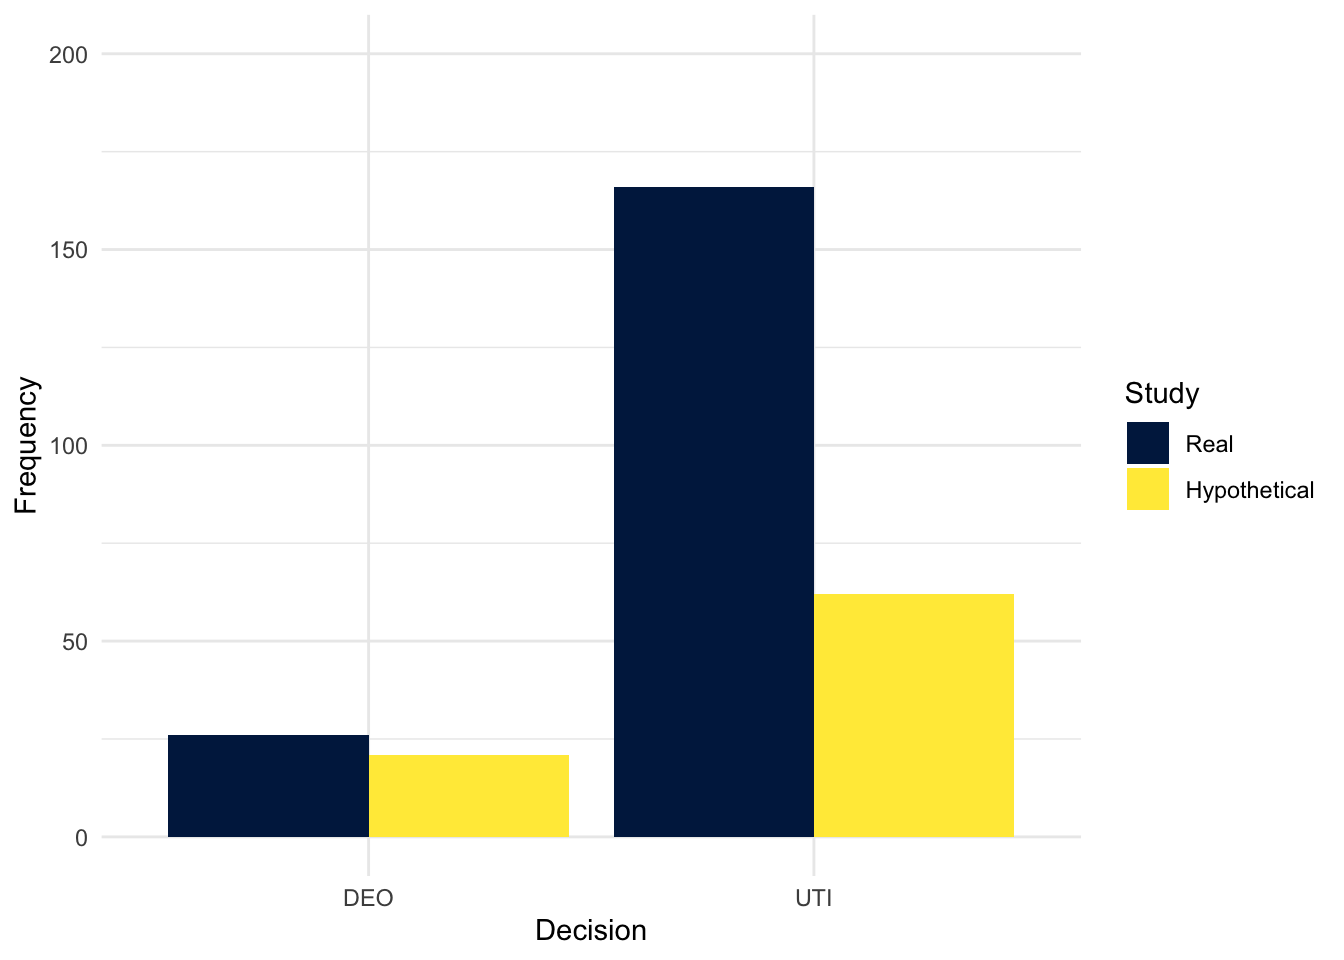
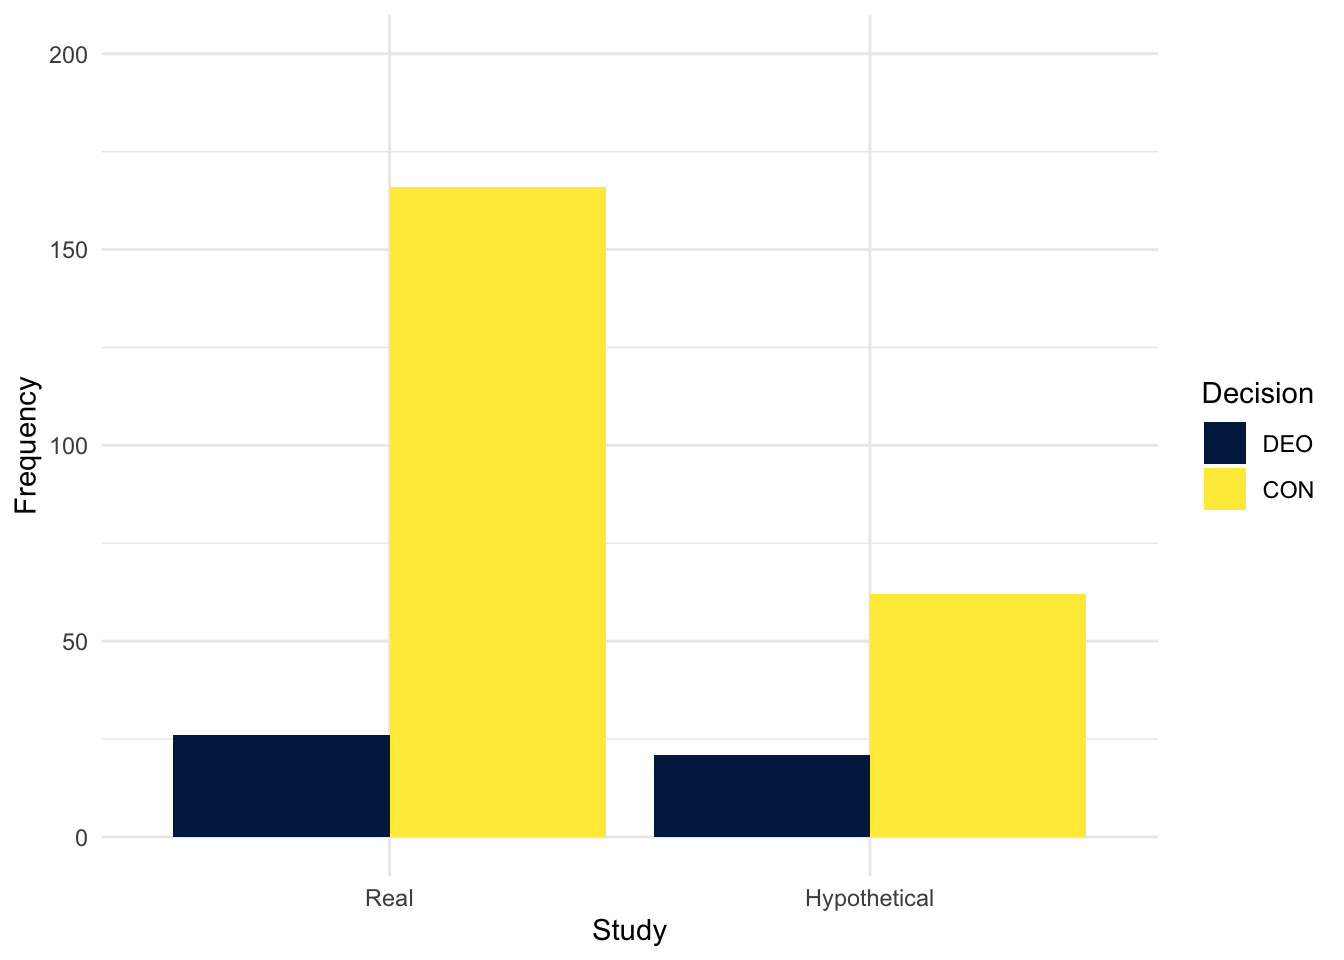
C05 to exploratory data analysis

diff --git a/05-glm.html b/05-glm.html
@@ -137,21 +137,65 @@ window.Quarto = {
 <h2 class="anchored" data-anchor-id="logistic-regression">Logistic Regression</h2>
 <section id="introduction-to-the-dataset" class="level3">
 <h3 class="anchored" data-anchor-id="introduction-to-the-dataset">Introduction to the dataset</h3>
-<p>For the guided examples, we have two datasets, but we will introduce them in turn. To demonstrate logistic regression, we will use data from X.</p>
-<p>Bostyn et al.&nbsp;studied… Their research question was: X The hypothesis was: X.</p>
-<p>There is one independent variable (<code>Condition</code>) to randomly allocate participants into one of two groups:</p>
+<p>For the guided examples, we have two datasets, but we will introduce them in turn. To demonstrate logistic regression, we will use data from <span class="citation" data-cites="bostyn_mice_2018">@bostyn_mice_2018</span>.</p>
+<p>Bostyn et al.&nbsp;studied the classic trolley-dilemma in moral philosophy. In the typical format, a trolley (streetcar/tram) is travelling along tracks and will run over five people. However, you have the choice to pull a lever and divert the trolley to run over just one person. Although this would save lives, you must manually intervene to essentially kill one person. This is typically always a hypothetical scenario as it’s difficult to ask an ethics board for permission to run over people. In this study, Bostyn et al.&nbsp;compared a hypothetical version of the trolley-dilemma with a (seemingly) realistic version. Participants chose between not intervening and allowing five mice in a cage to be shocked with electricity or they could intervene and one mouse would be shocked instead. Do not worry, the mice were never shocked but participants did not know it at the time.</p>
+<p>Their research question was: would there be a difference in moral decision-making when participants completed a hypothetical compared to a real version of the trolley-dilemma task? There was seemingly no hypothesis, so we will just focus on addressing the research question.</p>
+<p>There is one independent variable (<code>STUDY</code>) to randomly allocate participants into one of two groups:</p>
 <ol type="1">
-<li><p>The correction group (group <code>1</code> in the data) had one sentence saying: “The lead author has since specified that the results have been misrepresented and that TV screen time has not yet been found to cause cognitive decline. Only a correlation has been found…”</p></li>
-<li><p>The no correction group (group <code>0</code> in the data) alternatively said: “The lead author of the study could not be reached for comment”</p></li>
+<li><p>The “real” group (group <code>1</code> in the data) attended a lab session where they saw two cages of real mice. They had 20 seconds to decide whether to press a button and divert the electric shock to the cage with one mouse.</p></li>
+<li><p>The hypothetical group (group <code>2</code> in the data) completed a more traditional version of the study where they just responded on a computer for whether they would intervene or not after reading a description of allowing five mice to be shocked or choosing for one mouse to be shocked.</p></li>
 </ol>
-<p>Participants then completed five free-text questions asking them about information in the study. Their responses were manually coded and received a 1 if they made a mistaken causal inference, or a 0 if they did not make one (<code>DV1_1</code> to <code>DV1_5</code> in the data set).</p>
+<p>Participants completed a bunch of additional measures on moral judgement, empathy, psychopathy etc., but our main outcome of interest is whether they chose to intervene (<code>1</code>) or not (<code>0</code>) from the variable <code>DECISION</code>. They label these two decisions as deontological when people intervened and consequentialist when people did not intervene. For plotting, we will use the labels, but for the analyses we will use the 0s and 1s.</p>
 <p>We first need to load some packages and the data for this task. If you do not have any of the packages, make sure you install them first.</p>
+<p>As the first activity, try and test yourself by completing the following task list to practice your data wrangling skills. Create a final object called <code>bostyn_data</code> to be consistent with the tasks below. If you just want to focus on fitting the models, then you can just copy the code in the solution.</p>
+<div class="callout callout-style-default callout-tip callout-titled">
+<div class="callout-header d-flex align-content-center">
+<div class="callout-icon-container">
+<i class="callout-icon"></i>
+</div>
+<div class="callout-title-container flex-fill">
+Try this
+</div>
+</div>
+<div class="callout-body-container callout-body">
+<p>To wrangle the data, complete the following tasks:</p>
+<ol type="1">
+<li><p>Load the following packages. If you do not have them already, remember you will need to install them first if you are working on your own computer:</p>
+<ul>
+<li><p><pkg>tidyverse</pkg></p></li>
+<li><p><pkg>emmeans</pkg></p></li>
+<li><p><pkg>ordinal</pkg></p></li>
+</ul></li>
+<li><p>You can complete the following tasks individually or combining things in one pipe, you just need a final object called <code>bostyn_data</code>. Read the data file <code>data/bostyn_2018.csv</code>.</p></li>
+<li><p>There are loads of variables in the data which you can explore in your own time, but for this chapter, just select the first four variables from <code>STUDY</code> to <code>DECISION</code>.</p></li>
+<li><p>There are a few missing values in <code>DECISION</code>, so remove the NAs at this point.</p></li>
+<li><p>To help with plotting and modelling later, create two new variables:</p>
+<ul>
+<li><p>Create a new variable called <code>study</code> where you create a factor to recode the values from <code>STUDY</code>. 1 should be relabelled “Real” and 2 should be relabelled as “Hypothetical”.</p></li>
+<li><p>Create a new variable called <code>label</code> where you create a factor to recode the values from <code>DECISION</code>. 0 should be relabelled “DEO” for deontological and 1 should be relabelled as “CON” for consequentialist.</p></li>
+</ul></li>
+</ol>
+</div>
+</div>
+<div class="callout callout-style-default callout-caution callout-titled">
+<div class="callout-header d-flex align-content-center" data-bs-toggle="collapse" data-bs-target=".callout-2-contents" aria-controls="callout-2" aria-expanded="false" aria-label="Toggle callout">
+<div class="callout-icon-container">
+<i class="callout-icon"></i>
+</div>
+<div class="callout-title-container flex-fill">
+Show me the solution
+</div>
+<div class="callout-btn-toggle d-inline-block border-0 py-1 ps-1 pe-0 float-end"><i class="callout-toggle"></i></div>
+</div>
+<div id="callout-2" class="callout-2-contents callout-collapse collapse">
+<div class="callout-body-container callout-body">
+<p>You should have the following in a code chunk:</p>
 <div class="cell">
 <div class="sourceCode cell-code" id="cb1"><pre class="sourceCode r code-with-copy"><code class="sourceCode r"><span id="cb1-1"><a href="#cb1-1" aria-hidden="true" tabindex="-1"></a><span class="co"># wrangling and visualisation functions </span></span>
 <span id="cb1-2"><a href="#cb1-2" aria-hidden="true" tabindex="-1"></a><span class="fu">library</span>(tidyverse)</span>
 <span id="cb1-3"><a href="#cb1-3" aria-hidden="true" tabindex="-1"></a><span class="co"># Parameter estimates</span></span>
 <span id="cb1-4"><a href="#cb1-4" aria-hidden="true" tabindex="-1"></a><span class="fu">library</span>(emmeans)</span>
-<span id="cb1-5"><a href="#cb1-5" aria-hidden="true" tabindex="-1"></a><span class="co"># Ordinal regression</span></span>
+<span id="cb1-5"><a href="#cb1-5" aria-hidden="true" tabindex="-1"></a><span class="co"># Ordinal regression for later</span></span>
 <span id="cb1-6"><a href="#cb1-6" aria-hidden="true" tabindex="-1"></a><span class="fu">library</span>(ordinal)</span>
 <span id="cb1-7"><a href="#cb1-7" aria-hidden="true" tabindex="-1"></a></span>
 <span id="cb1-8"><a href="#cb1-8" aria-hidden="true" tabindex="-1"></a><span class="co"># Bostyn data for logistic regression</span></span>
@@ -161,9 +205,12 @@ window.Quarto = {
 <span id="cb1-12"><a href="#cb1-12" aria-hidden="true" tabindex="-1"></a>  <span class="fu">mutate</span>(<span class="at">study =</span> <span class="fu">factor</span>(STUDY, </span>
 <span id="cb1-13"><a href="#cb1-13" aria-hidden="true" tabindex="-1"></a>                        <span class="at">levels =</span> <span class="fu">c</span>(<span class="dv">1</span>, <span class="dv">2</span>), </span>
 <span id="cb1-14"><a href="#cb1-14" aria-hidden="true" tabindex="-1"></a>                        <span class="at">labels =</span> <span class="fu">c</span>(<span class="st">"Real"</span>, <span class="st">"Hypothetical"</span>)),</span>
-<span id="cb1-15"><a href="#cb1-15" aria-hidden="true" tabindex="-1"></a>         <span class="at">decision =</span> <span class="fu">factor</span>(DECISION, </span>
+<span id="cb1-15"><a href="#cb1-15" aria-hidden="true" tabindex="-1"></a>         <span class="at">label =</span> <span class="fu">factor</span>(DECISION, </span>
 <span id="cb1-16"><a href="#cb1-16" aria-hidden="true" tabindex="-1"></a>                           <span class="at">levels =</span> <span class="fu">c</span>(<span class="dv">0</span>, <span class="dv">1</span>), </span>
-<span id="cb1-17"><a href="#cb1-17" aria-hidden="true" tabindex="-1"></a>                           <span class="at">labels =</span> <span class="fu">c</span>(<span class="st">"DEO"</span>, <span class="st">"UTI"</span>)))</span></code><button title="Copy to Clipboard" class="code-copy-button"><i class="bi"></i></button></pre></div>
+<span id="cb1-17"><a href="#cb1-17" aria-hidden="true" tabindex="-1"></a>                           <span class="at">labels =</span> <span class="fu">c</span>(<span class="st">"DEO"</span>, <span class="st">"CON"</span>)))</span></code><button title="Copy to Clipboard" class="code-copy-button"><i class="bi"></i></button></pre></div>
+</div>
+</div>
+</div>
 </div>
 </section>
 <section id="exploratory-data-analysis" class="level3">
@@ -171,13 +218,13 @@ window.Quarto = {
 <p>When starting any data analysis, it is important to visualise the data for some exploratory data analysis. Using the skills you developed in data skills for reproducible research, you can explore the data to understand its properties and look for potential patterns. In this scenario, a bar plot might be handy as we have a dichotomous outcome, so we can explore the frequency of responses across each group.</p>
 <div class="cell">
 <div class="sourceCode cell-code" id="cb2"><pre class="sourceCode r code-with-copy"><code class="sourceCode r"><span id="cb2-1"><a href="#cb2-1" aria-hidden="true" tabindex="-1"></a>bostyn_data <span class="sc">%&gt;%</span> </span>
-<span id="cb2-2"><a href="#cb2-2" aria-hidden="true" tabindex="-1"></a>  <span class="fu">ggplot</span>(<span class="fu">aes</span>(<span class="at">x =</span> decision, <span class="at">fill =</span> study)) <span class="sc">+</span> </span>
+<span id="cb2-2"><a href="#cb2-2" aria-hidden="true" tabindex="-1"></a>  <span class="fu">ggplot</span>(<span class="fu">aes</span>(<span class="at">x =</span> study, <span class="at">fill =</span> label)) <span class="sc">+</span> </span>
 <span id="cb2-3"><a href="#cb2-3" aria-hidden="true" tabindex="-1"></a>  <span class="fu">geom_bar</span>(<span class="at">position =</span> <span class="st">"dodge"</span>) <span class="sc">+</span> </span>
-<span id="cb2-4"><a href="#cb2-4" aria-hidden="true" tabindex="-1"></a>  <span class="fu">scale_x_discrete</span>(<span class="at">name =</span> <span class="st">"Decision"</span>) <span class="sc">+</span> </span>
+<span id="cb2-4"><a href="#cb2-4" aria-hidden="true" tabindex="-1"></a>  <span class="fu">scale_x_discrete</span>(<span class="at">name =</span> <span class="st">"Study"</span>) <span class="sc">+</span> </span>
 <span id="cb2-5"><a href="#cb2-5" aria-hidden="true" tabindex="-1"></a>  <span class="fu">scale_y_continuous</span>(<span class="at">name =</span> <span class="st">"Frequency"</span>, </span>
 <span id="cb2-6"><a href="#cb2-6" aria-hidden="true" tabindex="-1"></a>                     <span class="at">breaks =</span> <span class="fu">seq</span>(<span class="dv">0</span>, <span class="dv">200</span>, <span class="dv">50</span>), </span>
 <span id="cb2-7"><a href="#cb2-7" aria-hidden="true" tabindex="-1"></a>                     <span class="at">limits =</span> <span class="fu">c</span>(<span class="dv">0</span>,<span class="dv">200</span>)) <span class="sc">+</span> </span>
-<span id="cb2-8"><a href="#cb2-8" aria-hidden="true" tabindex="-1"></a>  <span class="fu">scale_fill_viridis_d</span>(<span class="at">name =</span> <span class="st">"Study"</span>, <span class="at">option =</span> <span class="st">"E"</span>) <span class="sc">+</span></span>
+<span id="cb2-8"><a href="#cb2-8" aria-hidden="true" tabindex="-1"></a>  <span class="fu">scale_fill_viridis_d</span>(<span class="at">name =</span> <span class="st">"Decision"</span>, <span class="at">option =</span> <span class="st">"E"</span>) <span class="sc">+</span></span>
 <span id="cb2-9"><a href="#cb2-9" aria-hidden="true" tabindex="-1"></a>  <span class="fu">theme_minimal</span>()</span></code><button title="Copy to Clipboard" class="code-copy-button"><i class="bi"></i></button></pre></div>
 <div class="cell-output-display">
 <div>
@@ -823,7 +870,7 @@ spacing       1.3626     0.1280  10.647</code></pre>
 </ul>
 </div>
 <div class="callout callout-style-default callout-caution callout-titled">
-<div class="callout-header d-flex align-content-center" data-bs-toggle="collapse" data-bs-target=".callout-7-contents" aria-controls="callout-7" aria-expanded="false" aria-label="Toggle callout">
+<div class="callout-header d-flex align-content-center" data-bs-toggle="collapse" data-bs-target=".callout-9-contents" aria-controls="callout-9" aria-expanded="false" aria-label="Toggle callout">
 <div class="callout-icon-container">
 <i class="callout-icon"></i>
 </div>
@@ -832,7 +879,7 @@ Show me the solution
 </div>
 <div class="callout-btn-toggle d-inline-block border-0 py-1 ps-1 pe-0 float-end"><i class="callout-toggle"></i></div>
 </div>
-<div id="callout-7" class="callout-7-contents callout-collapse collapse">
+<div id="callout-9" class="callout-9-contents callout-collapse collapse">
 <div class="callout-body-container callout-body">
 <p>To produce a logistic regression model for the third causal question, we will predict <code>DV1_3</code> from <code>Condition</code> as a single predictor.</p>
 </div>
@@ -868,7 +915,7 @@ Try this
 </div>
 </div>
 <div class="callout callout-style-default callout-caution callout-titled">
-<div class="callout-header d-flex align-content-center" data-bs-toggle="collapse" data-bs-target=".callout-9-contents" aria-controls="callout-9" aria-expanded="false" aria-label="Toggle callout">
+<div class="callout-header d-flex align-content-center" data-bs-toggle="collapse" data-bs-target=".callout-11-contents" aria-controls="callout-11" aria-expanded="false" aria-label="Toggle callout">
 <div class="callout-icon-container">
 <i class="callout-icon"></i>
 </div>
@@ -877,7 +924,7 @@ Show me the solution
 </div>
 <div class="callout-btn-toggle d-inline-block border-0 py-1 ps-1 pe-0 float-end"><i class="callout-toggle"></i></div>
 </div>
-<div id="callout-9" class="callout-9-contents callout-collapse collapse">
+<div id="callout-11" class="callout-11-contents callout-collapse collapse">
 <div class="callout-body-container callout-body">
 <p>First, we need to convert hire rating to a factor for the ordinal model to work.</p>
 <div class="cell">
